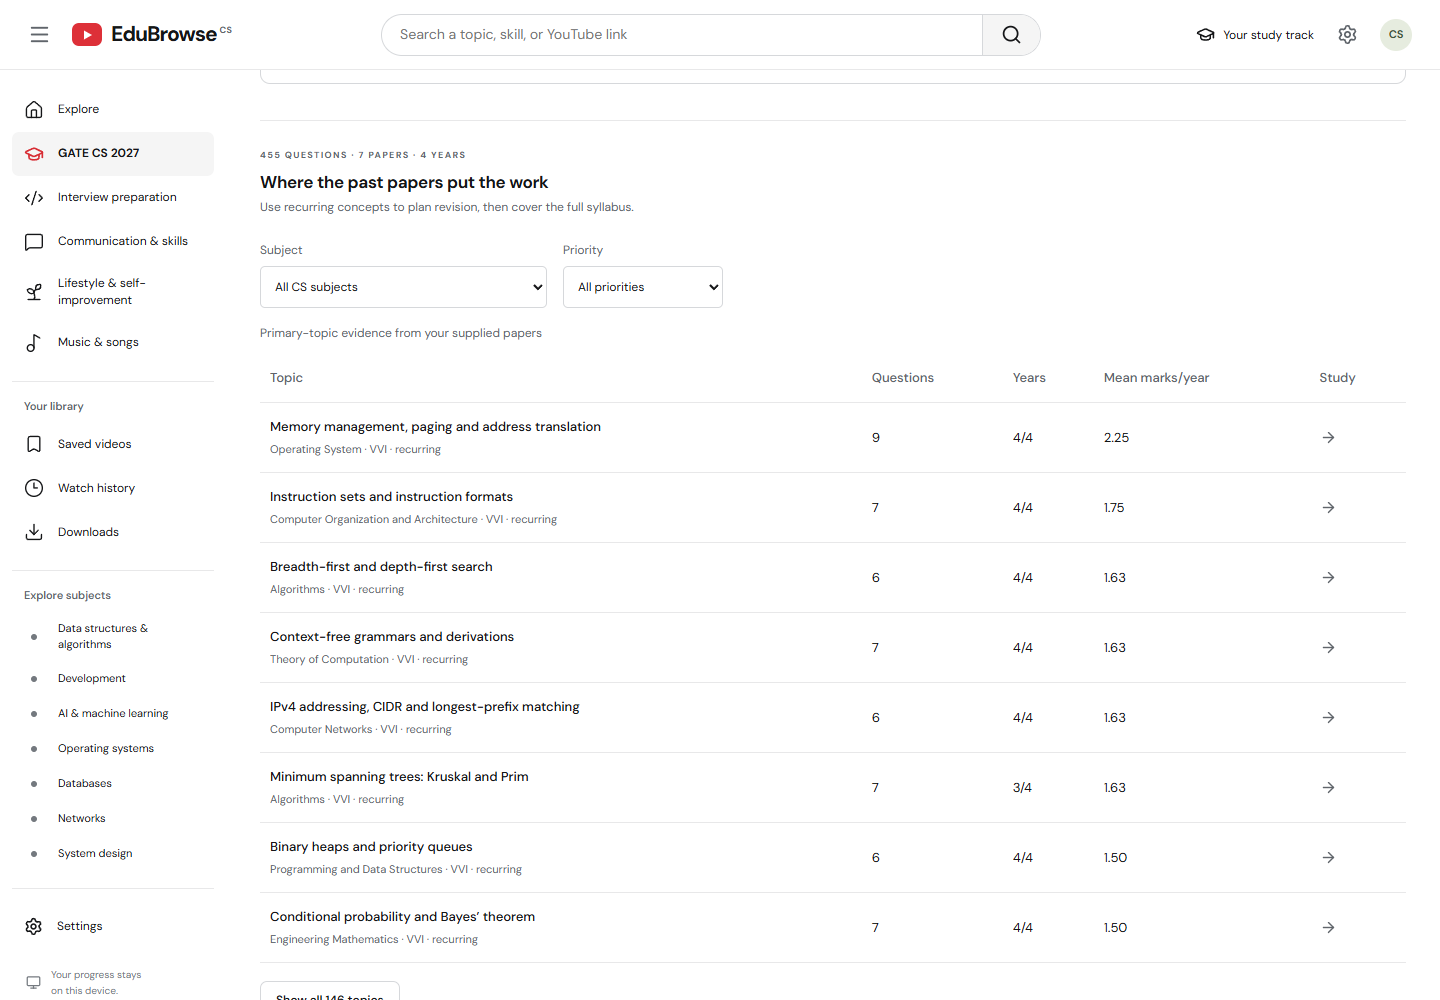
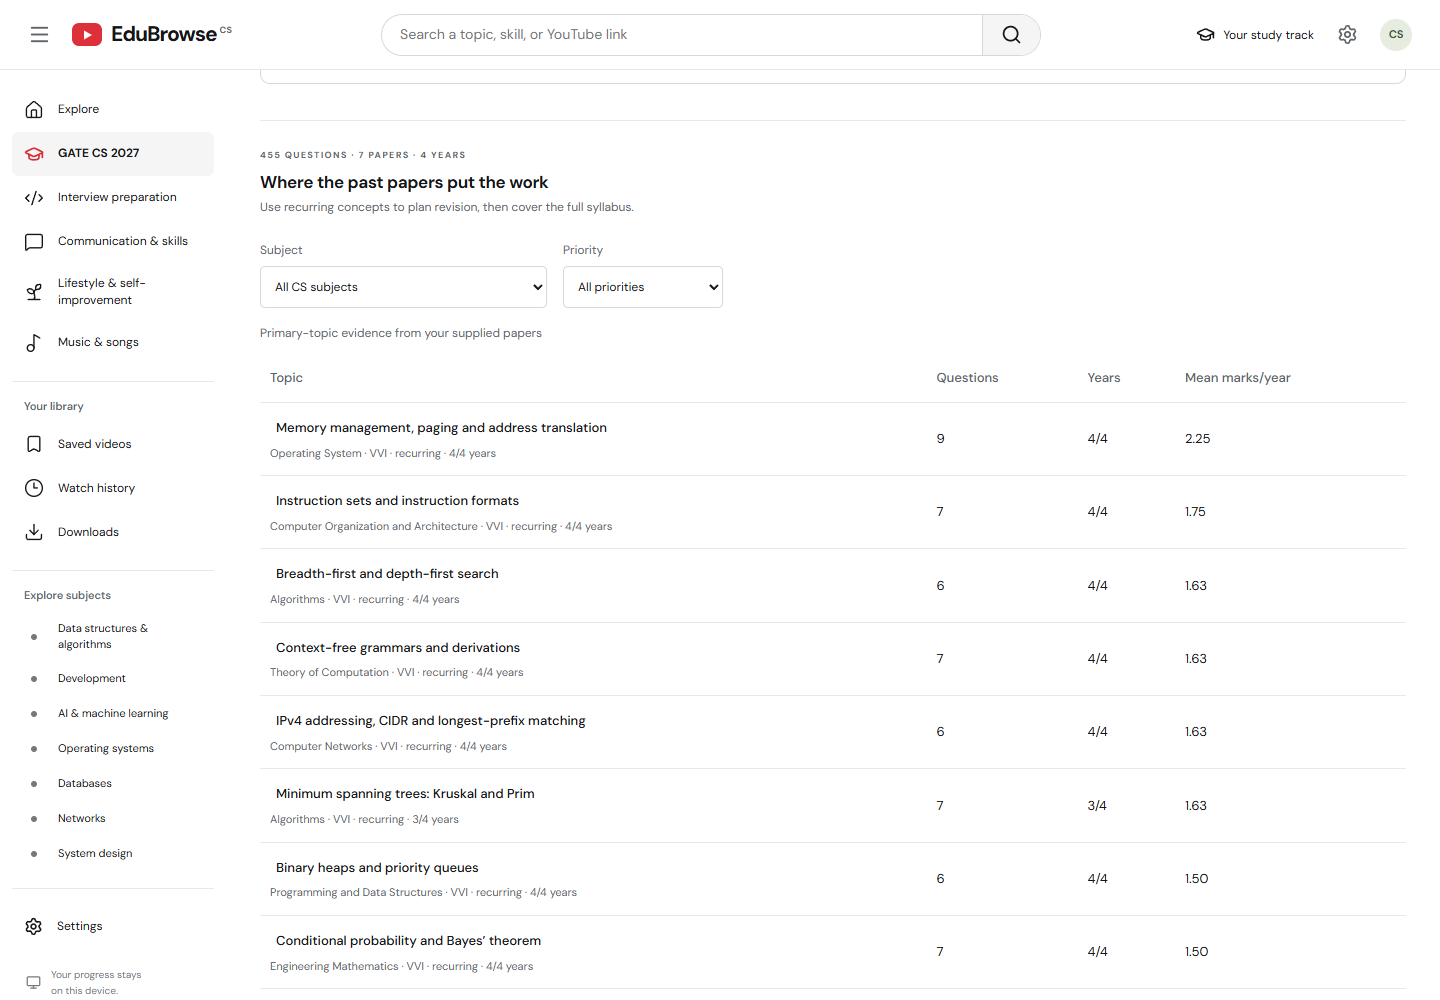
updated ui and bugs fixed

diff --git a/src/components/CourseAnalysis.jsx b/src/components/CourseAnalysis.jsx
@@ -1,5 +1,4 @@
 import { useState } from "react";
-import { ArrowRight } from "lucide-react";
 import useCourseAnalysis from "../hooks/useCourseAnalysis.js";
 import { navigate } from "../hooks/useRoute.js";
 const labels = {
@@ -123,32 +122,22 @@ export default function CourseAnalysis() {
             <tr>
               <th scope="col">Topic</th>
               <th scope="col">Questions</th>
-              <th scope="col">Years</th>
+              <th scope="col" className="analysis-year">Years</th>
               <th scope="col">Mean marks/year</th>
-              <th scope="col">Study</th>
             </tr>
           </thead>
           <tbody>
             {topics.slice(0, all ? topics.length : 8).map((t) => (
               <tr key={t.id}>
                 <th scope="row">
-                  <span>{t.title}</span>
+                  <button className="analysis-topic-link" onClick={()=>navigate("/lesson/"+t.id)} aria-label={"Study "+t.title}>{t.title}</button>
                   <small>
-                    {t.sectionTitle} · {labels[t.priority]}
+                    {t.sectionTitle} · {labels[t.priority]} · {t.years.length}/4 years
                   </small>
                 </th>
                 <td>{t.primaryCount}</td>
-                <td>{t.years.length}/4</td>
+                <td className="analysis-year">{t.years.length}/4</td>
                 <td>{t.meanMarks.toFixed(2)}</td>
-                <td>
-                  <button
-                    className="text-button"
-                    onClick={() => navigate("/lesson/" + t.id)}
-                    aria-label={"Study " + t.title}
-                  >
-                    <ArrowRight size={17} />
-                  </button>
-                </td>
               </tr>
             ))}
           </tbody>

diff --git a/src/components/learning.css b/src/components/learning.css
@@ -20,6 +20,8 @@
 .analysis-table tbody th { font-weight: 500; min-width: 200px; }
 .analysis-table small { display: block; color: var(--secondary); margin-top: 5px; font-size: 11px; font-weight: 400; }
 .analysis-table td { font-variant-numeric: tabular-nums; }
+.analysis-topic-link { color: inherit; font: inherit; text-align: left; line-height: 1.6; }
+.analysis-topic-link:hover { color: var(--accent); text-decoration: underline; }
 .analysis-show { margin-top: 18px; }
 .analysis-method { font-size: 12px; color: var(--secondary); margin-top: 20px; line-height: 1.7; }
 .analysis-method summary, .topic-evidence summary { cursor: pointer; }
@@ -39,7 +41,10 @@
 @media (max-width: 650px) {
   .analysis-controls { display: grid; grid-template-columns: 1fr; }
   .analysis-table { font-size: 12px; }
-  .analysis-table tbody th { min-width: 170px; }
+  .analysis-table tbody th { min-width: 0; width: 58%; }
+  .analysis-table .analysis-year { display: none; }
+  .analysis-table thead th { white-space: normal; }
+  .analysis-table th, .analysis-table td { padding: 12px 6px; }
   .practice-tools { align-items: stretch; flex-direction: column; gap: 12px; }
 }
 .gate-exam-entry h2 { margin: 6px 0; font-size: 21px; }

diff --git a/docs/PROJECT_AUDIT.md b/docs/PROJECT_AUDIT.md
@@ -22,7 +22,7 @@
 
 The PYQ follow-up covers all seven supplied CS papers (2023–2026): **455 questions with final-key scoring, original question images, topic mappings and authored worked solutions**. Seven original-paper mocks and three mixed mocks each preserve 65 questions, 100 marks and 180 minutes. Mixed mocks use disjoint source questions and balance subject marks. Answers, flags and the absolute deadline survive reload; an expired attempt submits on return. Solutions and the doubt tutor appear after submission.
 
-All 150 concepts (146 syllabus lessons and four aptitude supplements) have an expanded exam method, worked problem, conditions and an additional original numerical drill. Combined with the foundation checks there are **755 questions**. The supplied PYQs map to 131 concepts; the remaining topics explicitly retain original practice. The source audit and exact mappings are in `PYQ/README.md` and `PYQ/coverage.json`. Image crops now retain multi-line opening givens, and plain questions use readable text with an expandable original; diagram/code questions retain the original layout and mobile enlargement.
+All 150 concepts (146 syllabus lessons and four aptitude supplements) now have deeper theory, prerequisite links, a solving procedure, worked patterns and four or five exam drills. This update adds 494 questions; combined with foundation checks there are **794 original questions plus 455 PYQs (1,249 total)**. The overview shows year-balanced topic priorities; 44 concepts qualify as VVI by the documented recurrence rule, each with an additional transfer problem. See `GATE_2027_REVIEW.md` and `PYQ/course-analysis.md` for complete evidence. All 150 topics have short video candidates, and 109 have additional practice-mode clips. Image crops retain multi-line givens; diagrams/code retain the original layout and mobile enlargement.
 
 Gemini is reserved for explicitly submitted student doubts. Opening a lesson/chat or selecting a suggested prompt makes no model request. Static notes, solutions and content builds use no Gemini quota. Successful identical conversations cache for six hours, concurrent duplicates coalesce, and output is bounded to 1536 tokens. Per-IP/concurrency limits and a default 18-request UTC daily budget apply per instance; these in-memory controls are not a distributed Vercel quota. Tutor tests use fixtures. No model request was made after the user specified doubt-only usage.
 
@@ -50,7 +50,7 @@ The YouTube Data API path is exercised with provider fixtures because no real AP
 
 A real download was checked using a short public video. FFmpeg merged separate audio/video streams and the result had an MP4 file signature; see download-verification.json. The browser suite separately tests queue-to-file interface states using fixtures.
 
-The production app runs with its Node API, either on a local server or in the same Vercel project as the frontend. These latest workspace changes have not been deployed automatically. No native App Store/Windows packages were created; the installable web app uses the responsive interface. Mobile fullscreen requests landscape, unlocks on exit and holds a wake lock while playback is active, where browser support permits.
+The production app runs with its Node API, either on a local server or in the same Vercel project as the frontend. A connected Vercel Git integration can deploy pushed commits; verify completion before treating a source update as live. No native App Store/Windows packages were created; the installable web app uses the responsive interface. Mobile fullscreen requests landscape, unlocks on exit and holds a wake lock while playback is active, where browser support permits.
 
 ## Evidence files
 
@@ -63,8 +63,8 @@ The production app runs with its Node API, either on a local server or in the sa
 
 ## Final check results
 
-- 68 unit/service tests passed.
-- 60 browser tests passed across desktop and mobile, including all six new exam/practice scenarios on both viewports. The Windows test-server process required explicit cleanup after the assertions completed; the runner then exited successfully.
+- 72 unit/service tests passed, including full-bank integrity, year-balanced priorities, prerequisite-cycle checks, independent transfer-problem calculations and short-video coverage for all 150 topics.
+- 66 browser tests passed across desktop and mobile. Four affected priority/layout checks passed again after the final mobile table adjustment. Tests used an existing local server, avoiding the earlier Windows test-server teardown problem.
 - Oxlint completed with no warnings or errors.
 - Vercel production build completed, including checksum-verified yt-dlp and the FFmpeg executable check.
 - Desktop/mobile practice and exam screens fit their viewports. The bank and visited topic guides/question images use offline caches; updated JSON is fetched first to avoid keeping stale corrections after deployment.

diff --git a/docs/VERCEL_SETUP.md b/docs/VERCEL_SETUP.md
@@ -52,4 +52,4 @@ Read-only route check:
 node scripts/check-vercel.mjs https://study-zone-gamma.vercel.app
 ```
 
-These local source changes have not been deployed automatically. End-to-end production checks must follow redeployment with the server environment configured.
+A connected Vercel Git integration starts a deployment after a push. Confirm its completion, then run the production checks above with the server environment configured.
